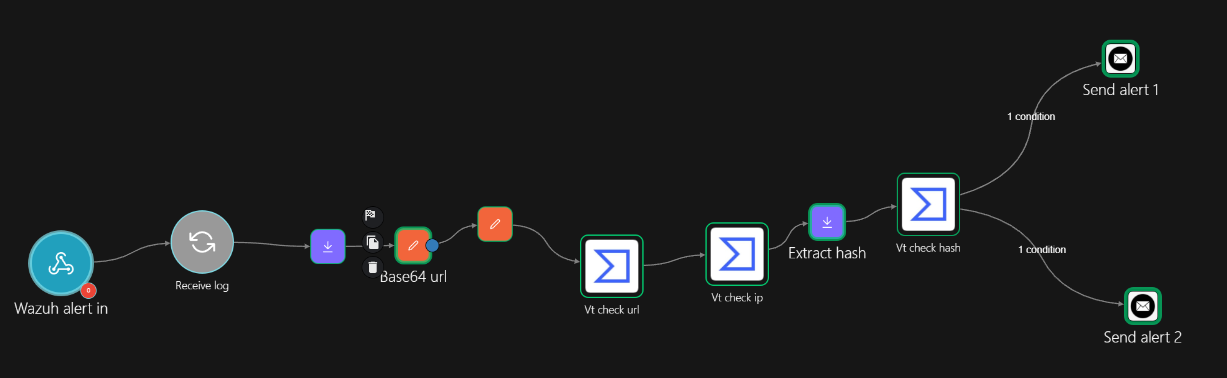
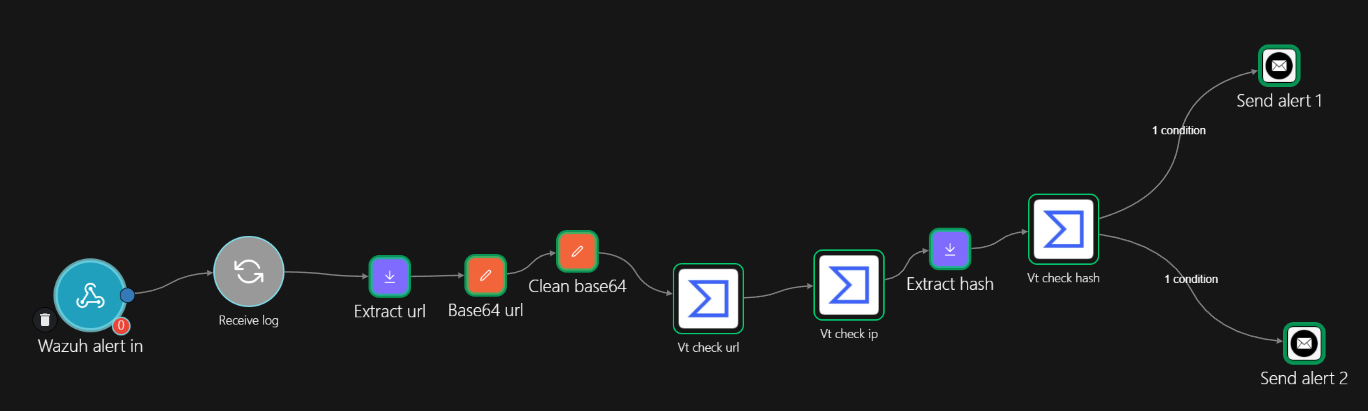
update phishing-malware

diff --git a/phishing-malware-response/Phishing-Malware-Response/scenario.md b/phishing-malware-response/Phishing-Malware-Response/scenario.md
@@ -81,17 +81,25 @@ Workflow nhận alert từ Wazuh, giải mã base64 URL, kiểm tra URL/IP/hash 
 
 ![Ảnh 11 – Shuffle workflow KB1](images/shuffle_workflow.png)
 
-### 2.2 Phân tích luồng điều phối sự cố (SOAR Workflow)
+### 2.2 Phân tích luồng xử lý sự cố 
 
-Hệ thống điều phối Shuffle được thiết kế để tự động hóa toàn bộ vòng đời phân tích sự cố (Triage) thông qua một luồng xử lý dữ liệu liên tục:
-
-* **Giai đoạn 1: Tiếp nhận & Tiền xử lý (Ingestion & Preprocessing):** Luồng được kích hoạt (Trigger) ngay khi Webhook nhận được cảnh báo mức độ cao (như rule 100011, 100003) từ Wazuh Manager. Do kẻ tấn công thường sử dụng kỹ thuật che giấu mã độc (Obfuscation), dữ liệu thô ngay lập tức đi qua bộ tiền xử lý để bóc tách và giải mã các chuỗi Base64 ẩn trong lệnh PowerShell, nhằm khôi phục lại URL gốc phục vụ cho quá trình phân tích.
-* **Giai đoạn 2: Lọc dữ liệu (Condition Filtering):** Để tối ưu hóa tài nguyên và tránh cảnh báo rác (Spam), luồng dữ liệu đi qua một màng lọc logic. Chỉ những cảnh báo hội đủ các yếu tố cấu thành một mối đe dọa (có chứa địa chỉ IP đích, Hash file lạ, hoặc URL khả nghi) mới được phép truyền qua. Điều này cũng giúp hệ thống không vượt quá giới hạn gọi API (Rate Limiting) của các dịch vụ bên thứ ba.
-* **Giai đoạn 3: Làm giàu dữ liệu (Threat Intel Enrichment):** Đây là phân đoạn phân tích lõi. Các Dấu hiệu thỏa hiệp (IOCs) được tự động trích xuất và hệ thống phân nhánh để thực thi kiểm tra song song (Parallel execution) qua API của VirusTotal. Luồng sẽ đồng thời tra cứu mức độ độc hại của:
-    1.  *Đường dẫn URL* dùng để tải payload.
-    2.  *Địa chỉ IP* của máy chủ C2.
-    3.  *Mã băm (SHA256 Hash)* của tệp tin `malware_payload.exe` vừa rớt xuống máy nạn nhân.
-* **Giai đoạn 4: Tổng hợp & Cảnh báo (Aggregation & Notification):** Các nhánh phân tích hội tụ lại để tổng hợp điểm số (Malicious Score). Toàn bộ bằng chứng thu thập được sẽ tự động định dạng thành một báo cáo bảo mật hoàn chỉnh và gửi khẩn cấp qua Email đến đội ngũ SOC Analyst, cung cấp ngay lập tức bức tranh toàn cảnh để ra quyết định ngăn chặn.
+Workflow gồm 10 bước xử lý tuần tự, kết thúc bằng 2 nhánh alert dựa trên kết quả kiểm tra:
+ 
+| Bước | Node | Mô tả |
+|------|------|-------|
+| 1 | **Wazuh alert in** | Nhận alert từ Wazuh qua webhook khi rule 100011 / 100003 kích hoạt |
+| 2 | **Receive log** | Parse JSON log, chuẩn bị dữ liệu cho các bước tiếp theo |
+| 3 | **Extract url** | Trích xuất URL từ trường `win.eventdata.commandLine` bằng regex |
+| 4 | **Base64 url** | Encode URL sang base64 để gọi VirusTotal API (`/urls/{id}`) |
+| 5 | **Clean base64** | Loại bỏ padding `=` và ký tự xuống dòng, chuẩn hóa chuỗi base64 |
+| 6 | **Vt check url** | Gọi VirusTotal API kiểm tra URL, lấy `last_analysis_stats` |
+| 7 | **Vt check ip** | Gọi VirusTotal API kiểm tra IP kết nối (trích từ alert) |
+| 8 | **Extract hash** | Trích xuất SHA256 hash của file từ trường `data.win.eventdata.hashes` |
+| 9 | **Vt check hash** | Gọi VirusTotal API kiểm tra hash file, lấy kết quả `last_analysis_stats` |
+| 10a | **Send alert 1** | Gửi email cảnh báo nếu **hash file bị đánh giá malicious trên Virustotal** |
+| 10b | **Send alert 2** | Gửi email cảnh báo nếu **hash file nghi ngờ là mã độc Zero-day** |
+ 
+> **Lưu ý:** Hai nhánh `Send alert 1` và `Send alert 2` hoạt động độc lập, mỗi nhánh được kích hoạt bởi 1 condition riêng — đảm bảo cảnh báo được gửi ngay khi bất kỳ nguồn nào phát hiện mối đe dọa.
 
 ---
 
